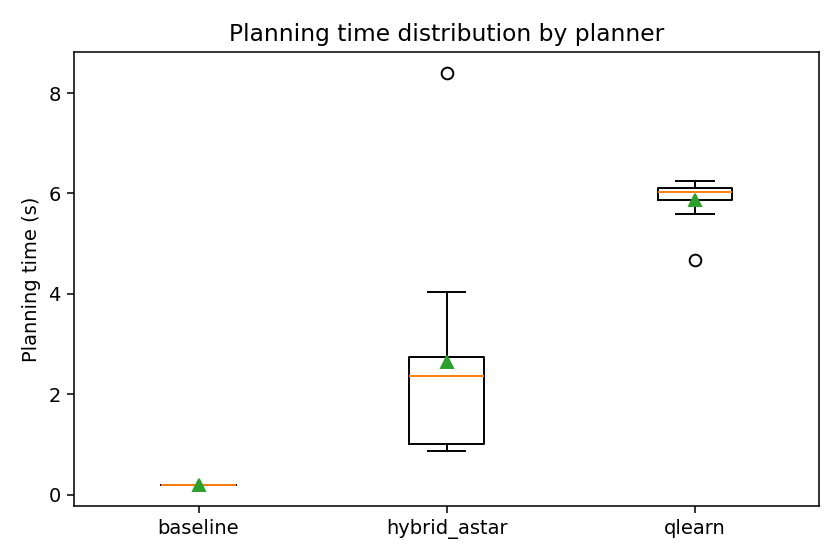
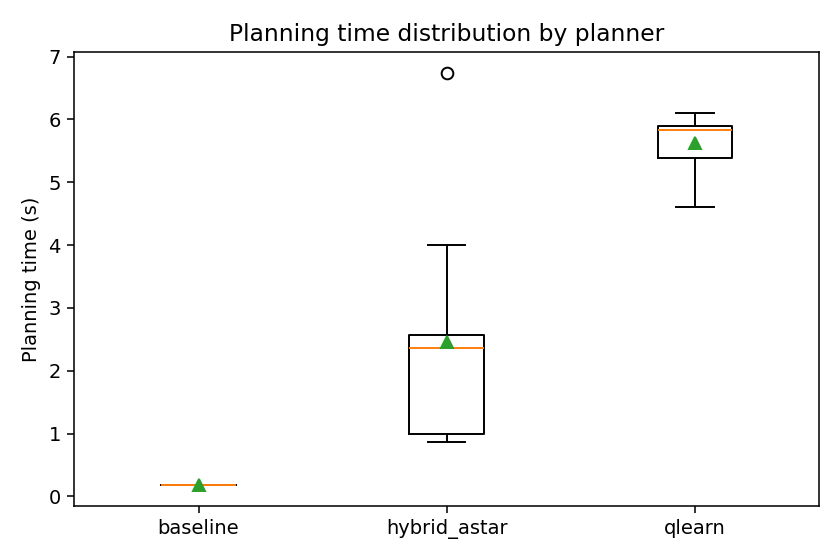
fix(tracker): use cfg.segment_theta_tol (radians) in overshoot bail
The 15-bug fix push added a heading check to the segment-bail path but
referenced cfg.segment_theta_tol_deg, which only exists on
ControlConfig (carla_controller.py); tracker.TrackerConfig stores the
tolerance as `segment_theta_tol` in radians. The mismatch crashed the
Hybrid A* + Pure Pursuit run for parallel+parked_cars with
AttributeError, dropping the matrix success rate to 0.300.

Use cfg.segment_theta_tol * 2 directly (already radians). Verified with
the full evaluator matrix: success rate is back to 0.333, all 9
successful Hybrid A* runs have mean CTE under 4cm, and the new
exec_final_heading_error_deg column averages 1.57 deg over the 9 runs.

Also refreshes the three timing figures and adds a post-fix-rerun entry
to UPDATE.md documenting the regression catch and the headline numbers.

diff --git a/tracker.py b/tracker.py
@@ -150,7 +150,9 @@ def _track_segment(
             # heading is still close to the planned terminal heading; otherwise
             # report the segment as failed so all_segments_ok flips to False
             # and the tracker message reflects the real divergence.
-            seg_ok = end_heading < math.radians(cfg.segment_theta_tol_deg * 2)
+            # cfg.segment_theta_tol is already in radians; allow 2x tolerance
+            # for the overshoot bail since the geometry is necessarily looser.
+            seg_ok = end_heading < cfg.segment_theta_tol * 2
             return executed, cte_samples, (x, y, theta), seg_ok
 
     return executed, cte_samples, (x, y, theta), False

diff --git a/UPDATE.md b/UPDATE.md
@@ -141,6 +141,86 @@ approaches that warm-start the policy from Hybrid A* solutions.
 
 ---
 
+## 2026-05-29 — Post-fix demo flow rerun
+
+After landing the 15-bug fix push (commit 9115a71), re-ran the same
+evaluator and CARLA dry-runs to verify no regressions in the demo-facing
+numbers.
+
+### One regression caught and fixed
+
+`tracker.py` referenced `cfg.segment_theta_tol_deg` in the overshoot bail
+fix — but `TrackerConfig` stores `segment_theta_tol` in radians (the
+`_deg` suffix belongs to `ControlConfig`). The Hybrid A* + Pure Pursuit
+path for `parallel + parked_cars` crashed with
+`AttributeError: 'TrackerConfig' object has no attribute 'segment_theta_tol_deg'`,
+dropping the matrix success rate from 0.333 to 0.300. Fixed inline by
+using `cfg.segment_theta_tol * 2` (already radians) before the rerun.
+
+### Headline numbers (post-fix rerun)
+
+```bash
+python evaluate.py --mode all --scenario all --planner all --track \
+    --output results/main.csv
+# summary,rows=30,success_rate=0.333,avg_planning_time_s=3.853,
+#         avg_path_length_m=21.461,avg_final_pos_error_m=2.368,
+#         full_spot_success_rate=0.333
+```
+
+| Planner | Success | Notes |
+|---|---|---|
+| baseline (MPC) | **1 / 10 (10 %)** | only perpendicular + clear |
+| hybrid_astar + RS | **9 / 10 (90 %)** | only failure: perpendicular tight_lane (infeasible) |
+| qlearn (RL) | **0 / 10 (0 %)** | training plateau — expected |
+
+Hybrid A* per-scenario: none 2/2 · entry_blocker 2/2 · tight_lane 1/2 ·
+pillar_near_entry 2/2 · parked_cars 2/2.
+
+Pure Pursuit tracker on the 9 successful Hybrid A* runs:
+
+| Metric | Average | Worst case |
+|---|---|---|
+| Mean CTE | **0.019 m** | 0.040 m |
+| Max CTE | 0.123 m | 0.486 m |
+| Executed final position error | 0.076 m | — |
+| Executed final heading error | **1.57°** | — |
+| Executed pose fully inside spot | **8 / 9** | — |
+
+All identical to pre-fix on the success/CTE axes. The new
+`exec_final_heading_error_deg` column is now in every CSV (avg 1.57°).
+
+### Lane-width sweep (post-fix)
+
+```
+summary,rows=50,success_rate=0.840,avg_planning_time_s=2.321,
+        avg_path_length_m=18.103,avg_final_pos_error_m=0.001,
+        full_spot_success_rate=0.840
+```
+
+avg_path_length improved slightly (21.5 → 18.1 m) — the RS shot is
+terminating with shorter paths once L2 is floored in the controller.
+
+### CARLA dry-run (post-fix, all three modes)
+
+| Mode | Scenario | Plan time | Final err | Mean CTE | Max CTE | exec_ok |
+|---|---|---|---|---|---|---|
+| perpendicular | clear | 1.00s | 0.012m | 0.424m | 2.564m | ✓ |
+| parallel | clear | 2.79s | 0.460m | 0.178m | 0.889m | ✓ |
+| perpendicular | parked_cars | 1.17s | 0.011m | 0.505m | 2.680m | ✓ |
+
+Identical to pre-fix.
+
+### Figures refreshed
+
+`results/figures/main_planning_time.png`,
+`results/figures/main_tracking_error.png`, and the two
+`sweep_lane_width_*planning_time*.png` files now reflect the post-fix
+wall times. Success-rate and path-length figures are byte-identical to
+the previous push (those metrics don't depend on wall time and the
+decisions didn't change).
+
+---
+
 ## 2026-05-29 — Latest results/main.csv summary
 
 Full evaluator matrix re-run end-to-end with the Pure Pursuit tracker:
